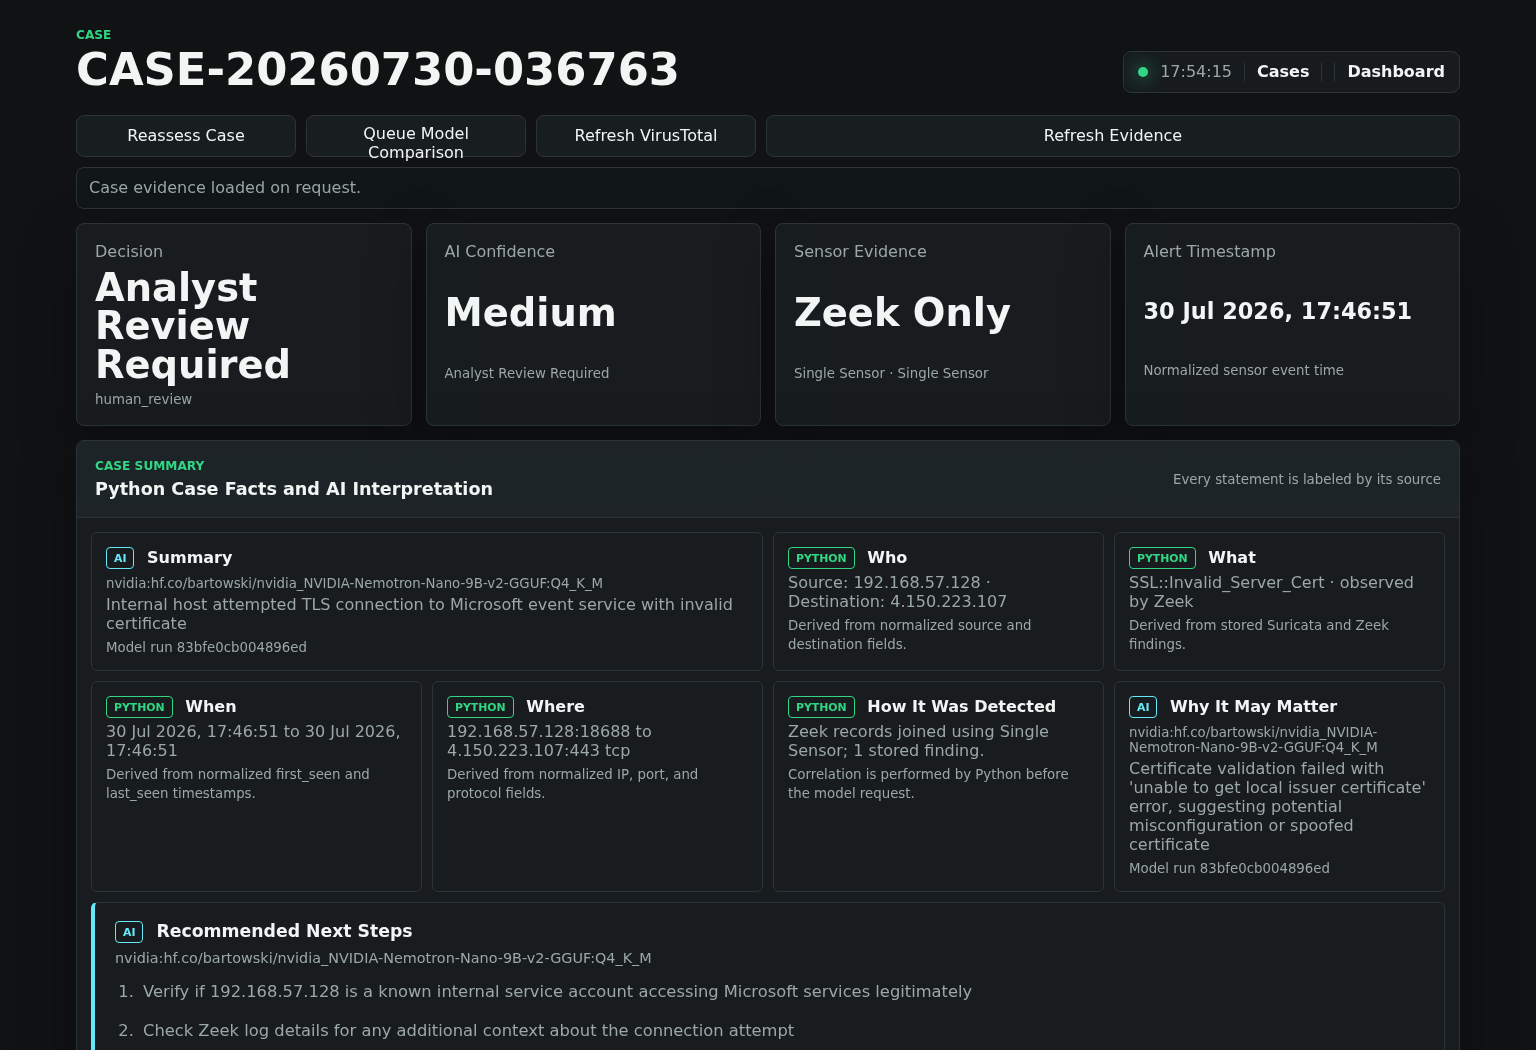
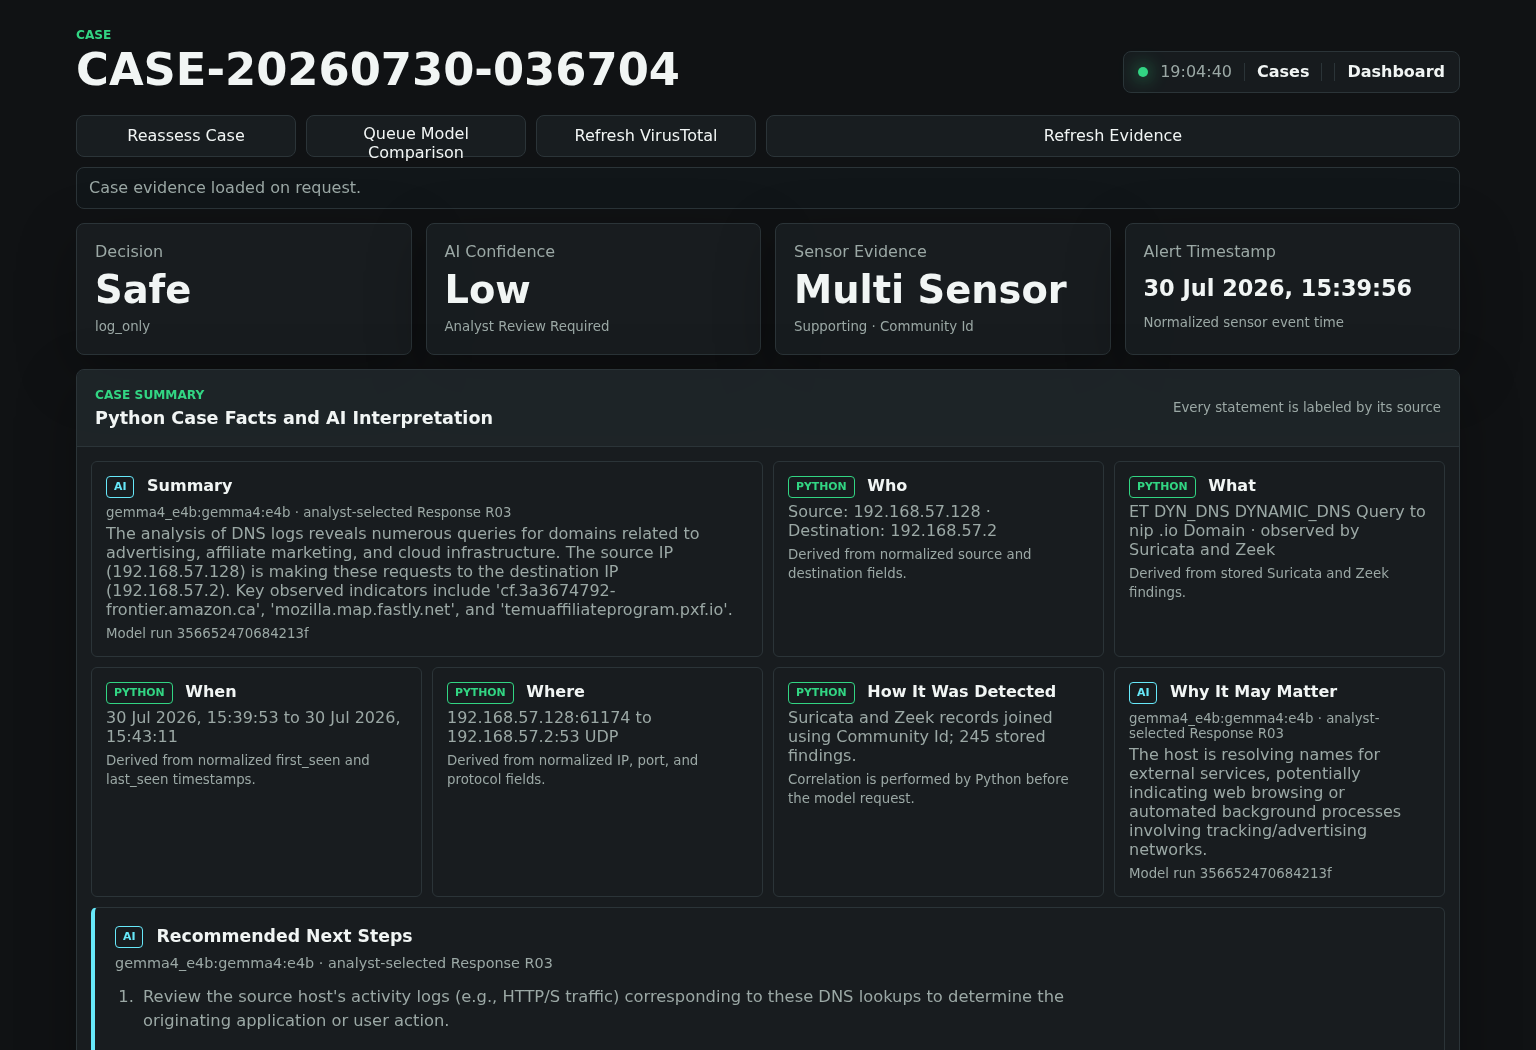
Refresh README screenshots

diff --git a/README.md b/README.md
@@ -113,13 +113,13 @@ This JSON is the API message envelope, not an attached JSON file. Tailscale prov
 
 ### Dashboard Overview
 
-![Security VM dashboard overview](docs/images/dashboard-overview.png?raw=1)
+![Current Security VM dashboard with activity, model, Zeek, and alert views](docs/images/dashboard-overview.png?raw=1)
 
-The dashboard summarizes sensor findings, centralized cases, outcome queues, encrypted-traffic metadata, combined alerts, and Zeek health. Data changes only when the analyst selects **Refresh**.
+The cleaned dashboard focuses on the activity timeline, selected-model snapshot, Zeek sensor health, and the combined Suricata and Zeek alert stream. Data changes only when the analyst selects **Refresh**.
 
 ### Case Investigation
 
-![Centralized case investigation](docs/images/case-investigation.png?raw=1)
+![Current multi-sensor case investigation and AI explanation](docs/images/case-investigation.png?raw=1)
 
 Each case has a stable UID and brings together timestamps, sensor findings, network endpoints, threat intelligence, AI explanations, reassessment, and analyst feedback. Expandable sensor records show the original Suricata or Zeek JSON, parsed endpoints and ports, source table/row, event UID, field lineage, and raw-record hash.
 
